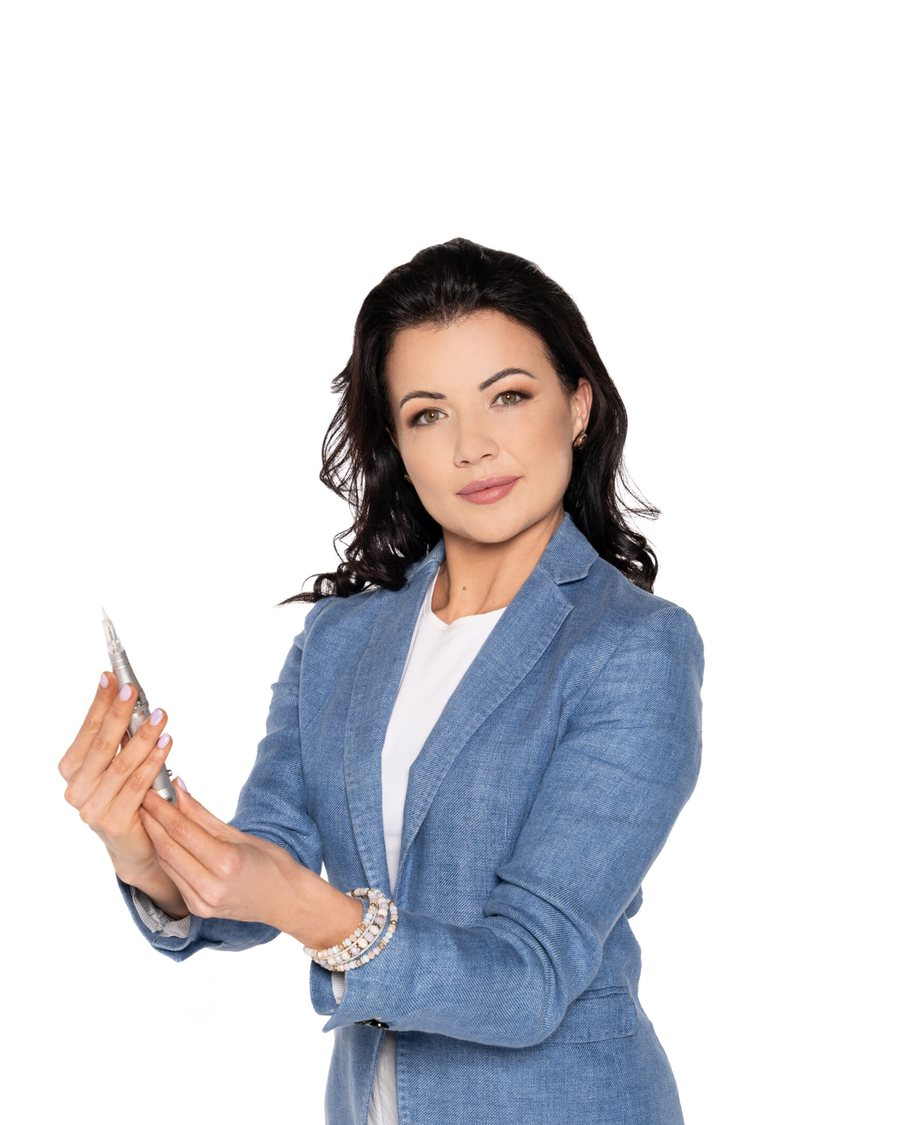
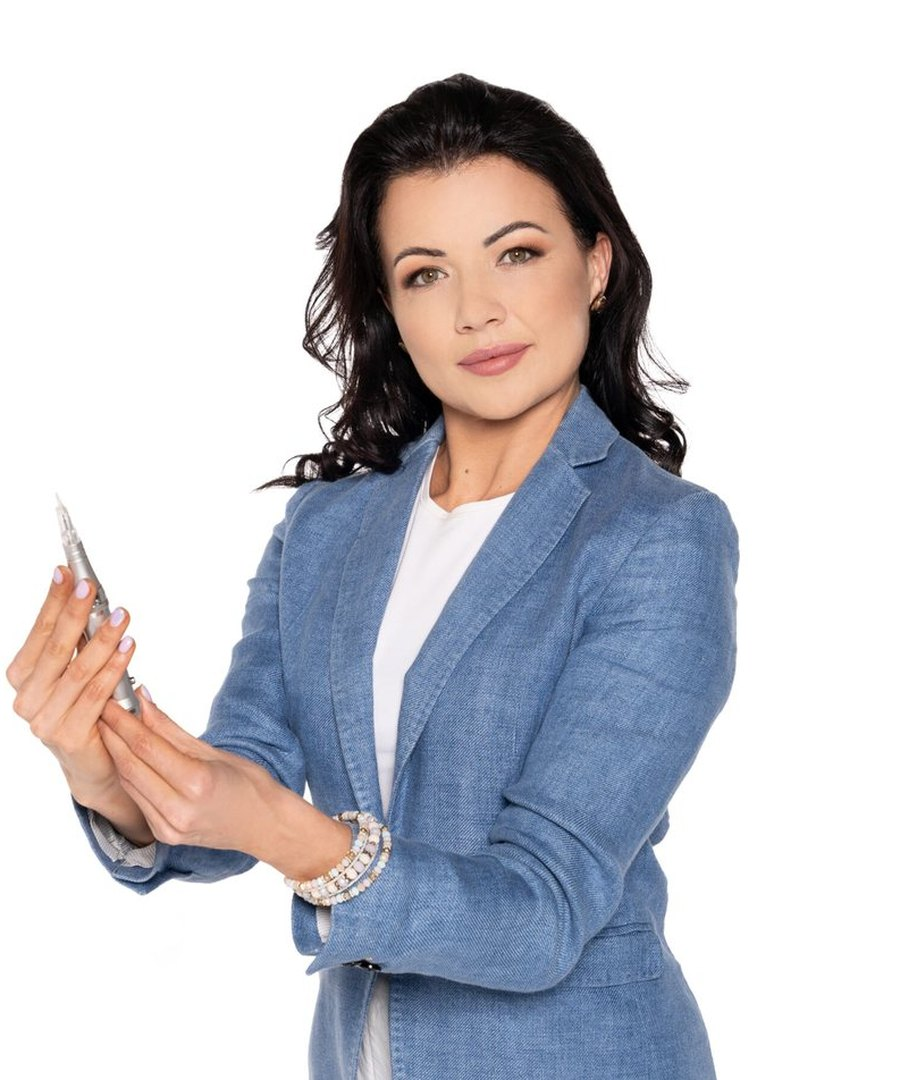
v3: portret Kasi bez ramki, ciaśniejszy kadr

diff --git a/v3/index.html b/v3/index.html
@@ -353,11 +353,9 @@
   .team-grid { display: grid; gap: clamp(1.6rem, 4vw, 3rem); grid-template-columns: 1fr; }
   @media (min-width: 880px) { .team-grid { grid-template-columns: .9fr 1.1fr; align-items: start; } }
   .portrait-wrap { position: relative; }
-  .portrait-wrap::before { content: ""; position: absolute; inset: 16px -16px -16px 16px; border: 1px solid var(--gold); pointer-events: none; z-index: 0; }
-  @media (max-width: 879px) { .portrait-wrap::before { inset: 12px -12px -12px 12px; } }
   @media (min-width: 880px) { .portrait-wrap { position: sticky; top: 96px; } }
-  .portrait { position: relative; z-index: 1; width: 100%; height: auto; aspect-ratio: 5 / 6; object-fit: cover; object-position: 50% 22%; display: block; box-shadow: var(--shadow); }
-  @media (max-width: 719px) { .portrait { max-height: 46vh; object-position: 50% 8%; } }
+  .portrait { position: relative; z-index: 1; width: 100%; height: auto; aspect-ratio: 5 / 6; object-fit: cover; object-position: 50% 30%; display: block; box-shadow: var(--shadow); }
+  @media (max-width: 719px) { .portrait { max-height: 46vh; object-position: 50% 15%; } }
   .team-people { display: grid; gap: 1.15rem; grid-template-columns: repeat(2, 1fr); margin-top: clamp(2rem, 4vw, 2.8rem); }
   @media (min-width: 720px) { .team-people { grid-template-columns: repeat(3, minmax(0, 260px)); justify-content: start; } }
   @media (min-width: 880px) { .team-people { grid-template-columns: repeat(3, 1fr); } }
@@ -1065,7 +1063,7 @@
   <hr class="laser-rule" aria-hidden="true">
   <section id="zespol">
     <div class="wrap team-grid">
-      <div class="portrait-wrap" data-reveal><picture><source type="image/webp" srcset="assets/kasia-2.webp"><img class="portrait" src="assets/kasia-2.jpg" alt="Katarzyna Bukowska, właścicielka Laser Clinic w Radomiu, kosmetolożka" width="900" height="1125" loading="lazy" decoding="async"></picture></div>
+      <div class="portrait-wrap" data-reveal><picture><source type="image/webp" srcset="assets/kasia-2.webp"><img class="portrait" src="assets/kasia-2.jpg" alt="Katarzyna Bukowska, właścicielka Laser Clinic w Radomiu, kosmetolożka" width="900" height="1080" loading="lazy" decoding="async"></picture></div>
       <div class="team-copy" data-reveal>
         <p class="eyebrow">Zespół</p>
         <h2>Kto będzie się Tobą zajmować</h2>
